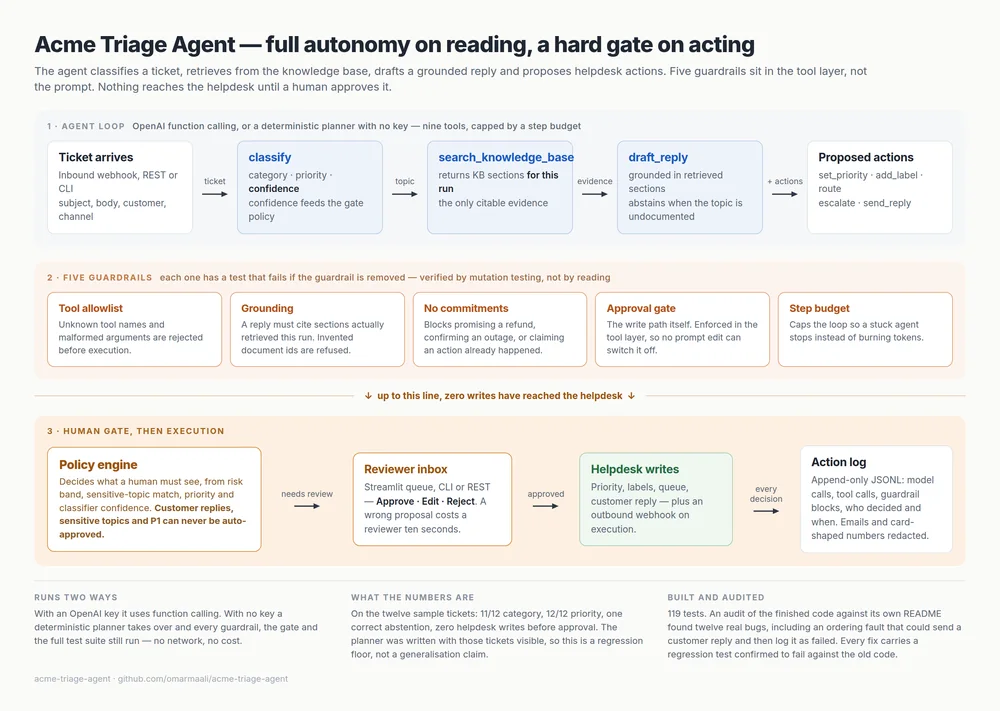
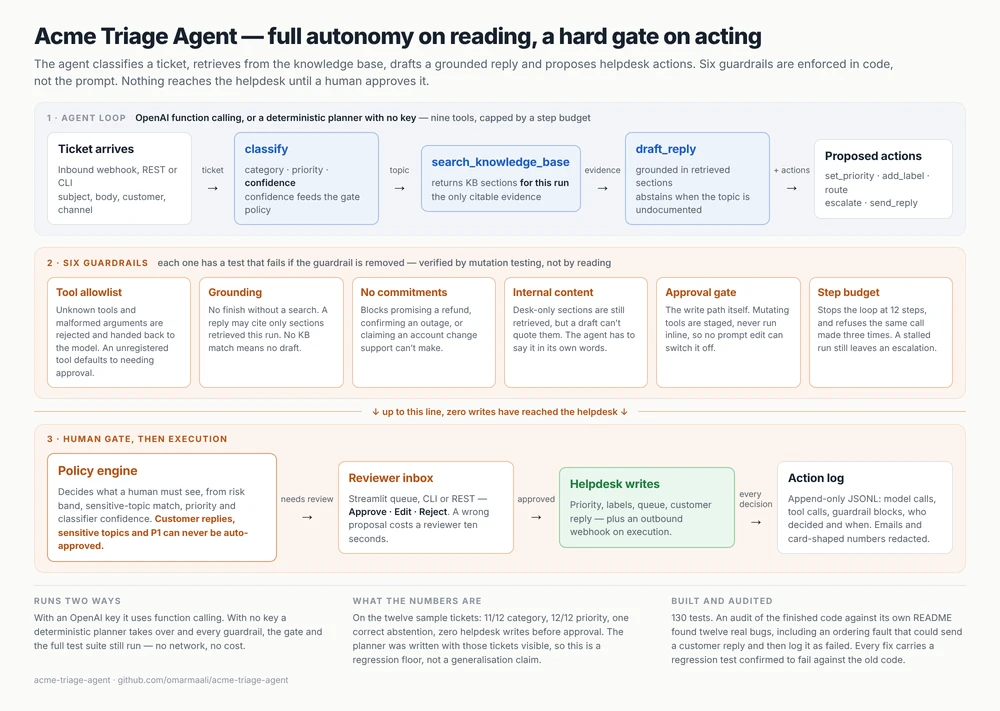
Add teaching section.

diff --git a/index.html b/index.html
@@ -1,6 +1,6 @@
 ---
 layout: default
-title: Omar Maali Hussein — Solution Architect & AI Engineer
+title: Omar Maali Hussein — Solution Architect, AI Engineer & Trainer
 ---
 
 <section class="hero">
@@ -9,18 +9,21 @@ title: Omar Maali Hussein — Solution Architect & AI Engineer
     <h1>I build AI systems that know what they don&rsquo;t know.</h1>
     <p class="lede">
       Fifteen years designing enterprise systems, now spent on agentic AI, retrieval,
-      and the evaluation work most teams skip. Everything below is published with its
-      evidence, <em>including the results that went against me</em>.
+      and the evaluation work most teams skip. I also teach it, in English and Arabic.
+      Everything below is published with its evidence,
+      <em>including the results that went against me</em>.
     </p>
     <div class="cta">
       <a class="btn" href="#work">See the work</a>
+      <a class="btn ghost" href="#teaching">How I teach</a>
       <a class="btn ghost" href="#contact">Get in touch</a>
     </div>
     <div class="facts">
       <span><b>15 years</b> in solution architecture</span>
+      <span><b>Certified trainer</b> Microsoft &middot; OutSystems</span>
       <span><b>9&times;</b> OutSystems certified</span>
       <span><b>MSc</b> Big Data Analytics</span>
-      <span><b>6</b> published projects</span>
+      <span><b>7</b> published projects</span>
     </div>
   </div>
 </section>
@@ -75,7 +78,7 @@ title: Omar Maali Hussein — Solution Architect & AI Engineer
           fails, and a rollout that starts with a small pilot on low-risk work rather
           than a tool announcement.
         </p>
-        <p class="ref">Worked through in <a href="#ai-dev-playbook">AI Dev Playbook</a></p>
+        <p class="ref">Worked through in <a href="#ai-dev-playbook">AI Dev Playbook</a> and the <a href="#ai-dev-onboarding-programme">onboarding programme</a></p>
       </div>
     </div>
   </div>
@@ -93,32 +96,49 @@ title: Omar Maali Hussein — Solution Architect & AI Engineer
     </div>
 
     {% for p in site.data.projects %}
-    {% assign anchor = p.title | downcase | replace: ' ', '-' | replace: '&', 'and' %}
-    <article class="proj" id="{{ anchor }}">
-      <div class="shot">
-        <a href="{{ '/assets/img/' | append: p.image | append: '.webp' | relative_url }}"
-           title="Open the full-size diagram">
-          <img src="{{ '/assets/img/' | append: p.image | append: '-card.webp' | relative_url }}"
-               alt="{{ p.alt }}" loading="lazy" decoding="async">
-        </a>
-      </div>
-      <div class="body">
-        <h3>{{ p.title }}</h3>
-        <p class="kicker">{{ p.kicker }}</p>
+    {% if p.group == 'teaching' %}{% continue %}{% endif %}
+    {% include project-card.html p=p %}
+    {% endfor %}
+  </div>
+</section>
+
+<section id="teaching">
+  <div class="wrap">
+    <div class="shead">
+      <p class="label">Teaching</p>
+      <h2>I teach from systems I&rsquo;ve built</h2>
+      <p>
+        Every topic below has a project on this page behind it. When a session gets to
+        retrieval or guardrail testing, there&rsquo;s a public repository with the real
+        numbers, including the ones that went badly.
+      </p>
+    </div>
+    <div class="teach">
+      <div class="cred">
+        <h4>Where I&rsquo;ve taught</h4>
         <ul>
-          {% for pt in p.points %}<li>{{ pt }}</li>{% endfor %}
+          <li><b>Microsoft Certified Trainer, STS Amman</b> Classroom courses for working IT professionals, and onboarding sessions for client teams.</li>
+          <li><b>A low-code practice, from nothing</b> Set up OutSystems, built the training path, and trained a developer group into a team that delivers.</li>
+          <li><b>Internal AI sessions</b> AI-assisted development for developers, QA and other departments. Same material, framed differently for each. QA ask the sharpest questions, because they want to know how you&rsquo;d test it.</li>
+          <li><b>Engineer onboarding</b> C# and .NET, architecture standards and delivery practice.</li>
+          <li><b>OutSystems Riyadh User Group</b> Generative AI inside OutSystems 11, presented live and <a href="{{ site.outsystems_article }}" rel="noopener">written up afterwards</a>.</li>
         </ul>
-        <div class="tags">
-          {% for t in p.tags %}<span>{{ t }}</span>{% endfor %}
-        </div>
-        <div class="meta">
-          {% for l in p.links %}
-          <a href="{% if l.url == 'SITE_OUTSYSTEMS_ARTICLE' %}{{ site.outsystems_article }}{% else %}{{ l.url }}{% endif %}" rel="noopener">{{ l.text }} &rarr;</a>
-          {% endfor %}
-          {% if p.note %}<span class="note">{{ p.note }}</span>{% endif %}
-        </div>
       </div>
-    </article>
+      <div class="cred">
+        <h4>What I teach</h4>
+        <ul>
+          <li><b>AI-assisted development for engineering teams</b> The spec, generate, review, test loop, reviewing diffs you didn&rsquo;t write, and what never goes into a prompt. <span class="ref">Behind it: <a href="#ai-dev-playbook">AI Dev Playbook</a>, <a href="#ai-dev-onboarding-programme">onboarding programme</a></span></li>
+          <li><b>RAG systems that can say no</b> Grounding, citations, refusals, and checking whether an answer was actually supported. <span class="ref">Behind it: <a href="#acme-support-assistant">Acme Support Assistant</a></span></li>
+          <li><b>Evaluating LLM applications</b> Eval harnesses, rubrics, guardrail and mutation testing, cost and latency. <span class="ref">Behind it: <a href="#llmcheck">llmcheck</a></span></li>
+          <li><b>LLM integration for enterprise applications</b> Tool calling, structured output, failure modes, timeouts and cost control. <span class="ref">Behind it: <a href="#acme-triage-agent">Acme Triage Agent</a></span></li>
+          <li><b>Agentic AI for OutSystems developers</b> Where agents fit in a low-code architecture, and wiring LLM APIs in natively. <span class="ref">Behind it: <a href="#generative-ai-assistant-in-outsystems-11">GenAI Assistant in OutSystems 11</a></span></li>
+          <li><b>OutSystems architecture and certification prep</b> Architecture patterns, delivery governance, and the Architecture Specialist and Tech Lead exams. <span class="ref">Behind it: nine OutSystems certifications, including both of those</span></li>
+        </ul>
+      </div>
+    </div>
+
+    {% for p in site.data.projects %}
+    {% if p.group == 'teaching' %}{% include project-card.html p=p %}{% endif %}
     {% endfor %}
   </div>
 </section>
@@ -176,11 +196,11 @@ title: Omar Maali Hussein — Solution Architect & AI Engineer
         </ul>
       </div>
       <div class="cred">
-        <h4>Education and teaching</h4>
+        <h4>Education</h4>
         <ul>
           <li><b>MSc Big Data Analytics</b> University of Liverpool. Dissertation: a graph-routed RAG retrieval engine.</li>
-          <li><b>Speaking</b> OutSystems Riyadh User Group, on generative AI inside low-code platforms.</li>
-          <li><b>Open source</b> Six public repositories, each with a README that states what its evaluation does not prove.</li>
+          <li><b>BSc Computer Science</b> University of Jordan.</li>
+          <li><b>Open source</b> Six public repositories, each with a README that states what it does not prove.</li>
         </ul>
       </div>
     </div>
@@ -192,8 +212,9 @@ title: Omar Maali Hussein — Solution Architect & AI Engineer
     <h2>Working on something in this space?</h2>
     <p>
       I'm always glad to talk about agentic architectures, retrieval that holds up under
-      scrutiny, or how to get an engineering team using AI tools without lowering the bar.
-      Ideas, questions and disagreements all welcome.
+      scrutiny, how to get an engineering team using AI tools without lowering the bar,
+      or a workshop for a team that&rsquo;s just starting on it. Ideas, questions and
+      disagreements all welcome.
     </p>
     <div class="links">
       <a class="solid" data-email data-email-text href="mailto:">Email</a>

diff --git a/_includes/project-card.html b/_includes/project-card.html
@@ -1,0 +1,32 @@
+{%- comment -%}
+  One project card. Used by the Work and Teaching sections of index.html.
+  Content lives in _data/projects.yml; entries with `group: teaching` render
+  under Teaching, everything else under Work.
+{%- endcomment -%}
+{% assign p = include.p %}
+{% assign anchor = p.title | downcase | replace: ' ', '-' | replace: '&', 'and' %}
+<article class="proj" id="{{ anchor }}">
+  <div class="shot">
+    <a href="{{ '/assets/img/' | append: p.image | append: '.webp' | relative_url }}"
+       title="Open the full-size diagram">
+      <img src="{{ '/assets/img/' | append: p.image | append: '-card.webp' | relative_url }}"
+           alt="{{ p.alt }}" loading="lazy" decoding="async">
+    </a>
+  </div>
+  <div class="body">
+    <h3>{{ p.title }}</h3>
+    <p class="kicker">{{ p.kicker }}</p>
+    <ul>
+      {% for pt in p.points %}<li>{{ pt }}</li>{% endfor %}
+    </ul>
+    <div class="tags">
+      {% for t in p.tags %}<span>{{ t }}</span>{% endfor %}
+    </div>
+    <div class="meta">
+      {% for l in p.links %}
+      <a href="{% if l.url == 'SITE_OUTSYSTEMS_ARTICLE' %}{{ site.outsystems_article }}{% else %}{{ l.url }}{% endif %}" rel="noopener">{{ l.text }} &rarr;</a>
+      {% endfor %}
+      {% if p.note %}<span class="note">{{ p.note }}</span>{% endif %}
+    </div>
+  </div>
+</article>

diff --git a/assets/css/style.css b/assets/css/style.css
@@ -175,6 +175,12 @@ section + section{padding-top:0}
 .contact .links a.solid{background:#fff;color:var(--ink);border-color:#fff}
 .contact .links a.solid:hover{background:#e9edf2;color:#000}
 
+/* --- teaching ------------------------------------------------------------ */
+.teach{display:grid;grid-template-columns:repeat(2,1fr);gap:18px;margin-bottom:22px}
+.teach .cred ul{gap:14px}
+.cred li .ref{display:block;margin-top:4px;font-size:13.5px;color:var(--faint)}
+.cred li .ref a{font-weight:500}
+
 /* --- footer -------------------------------------------------------------- */
 .foot{border-top:1px solid var(--line);padding:30px 0 46px}
 .foot .wrap{display:flex;flex-wrap:wrap;gap:14px;justify-content:space-between;
@@ -216,6 +222,7 @@ section + section{padding-top:0}
   .proj{grid-template-columns:1fr}
   .proj .shot{border-right:0;border-bottom:1px solid var(--line-soft);padding:18px}
   .creds{grid-template-columns:1fr}
+  .teach{grid-template-columns:1fr}
   .nav ul{gap:18px}
 }
 @media (max-width:680px){

diff --git a/_layouts/default.html b/_layouts/default.html
@@ -19,6 +19,7 @@
     <nav>
       <ul>
         <li class="hide-sm"><a href="{{ '/#work' | relative_url }}">Work</a></li>
+        <li class="hide-sm"><a href="{{ '/#teaching' | relative_url }}">Teaching</a></li>
         <li><a href="{{ '/writing/' | relative_url }}" {% if page.url contains '/writing' %}aria-current="page"{% endif %}>Writing</a></li>
         <li class="hide-sm"><a href="{{ '/#credentials' | relative_url }}">Background</a></li>
         <li><a href="{{ '/#contact' | relative_url }}">Contact</a></li>
